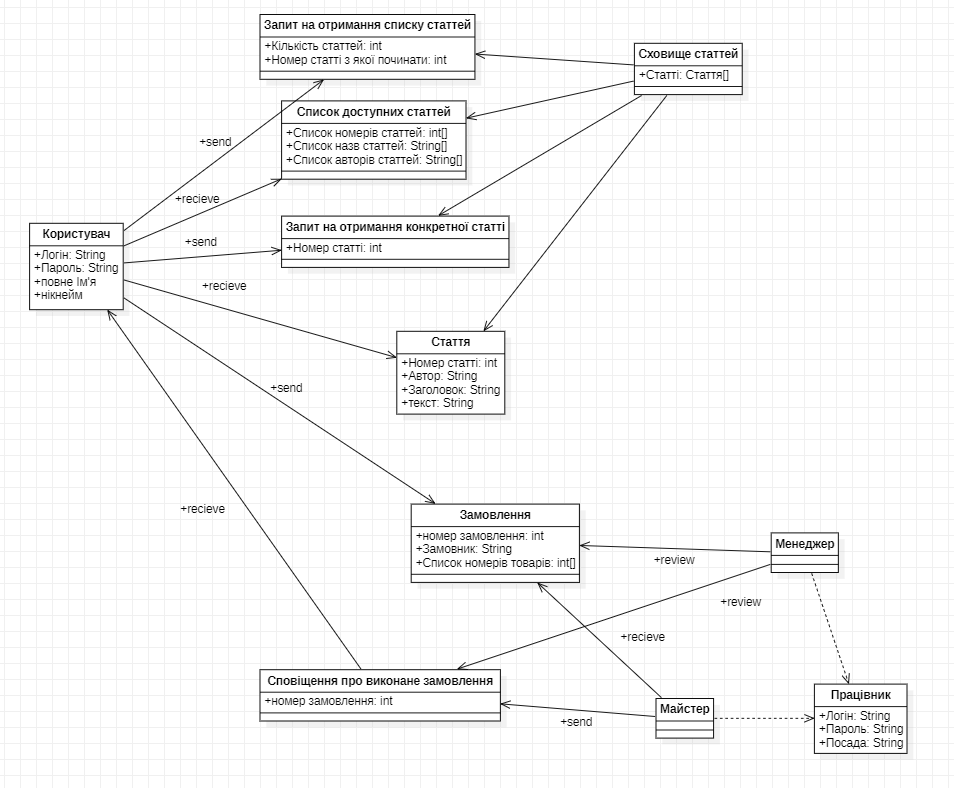
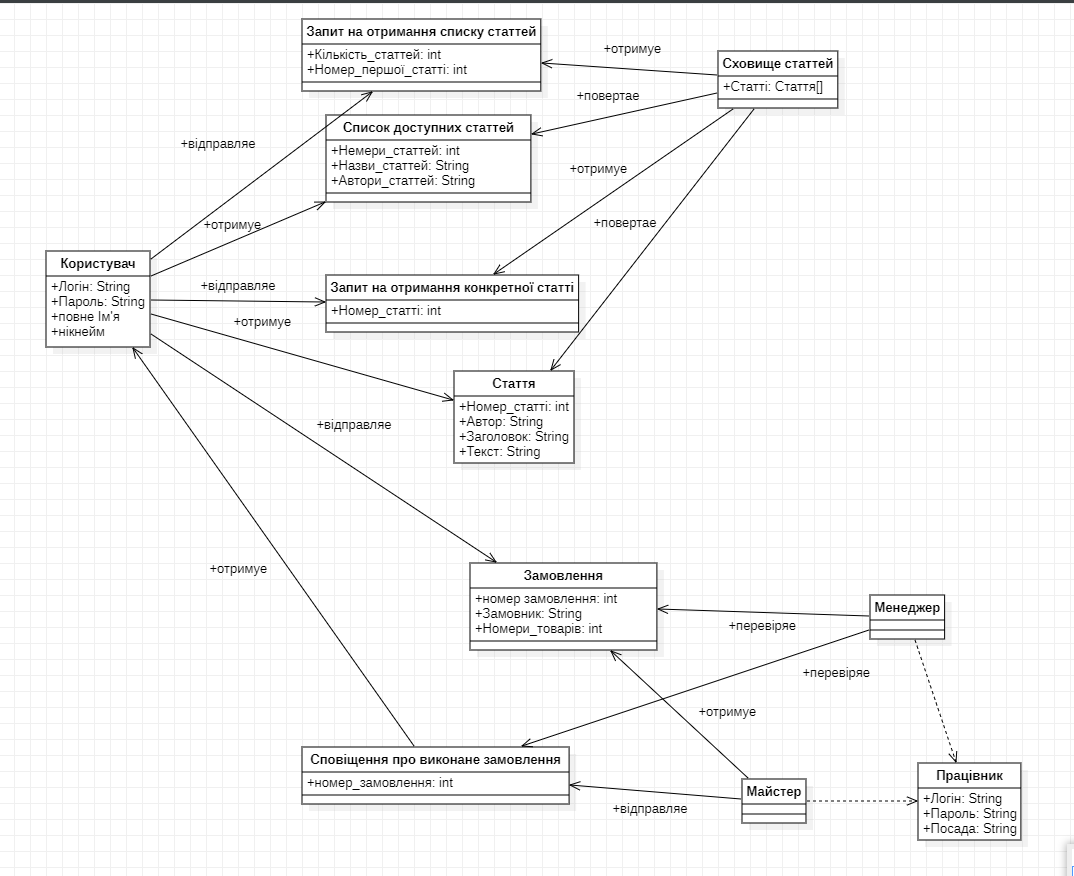
fix

diff --git a/2-SoftwareDesign/2.2-AttributeVocabulary/README.md b/2-SoftwareDesign/2.2-AttributeVocabulary/README.md
@@ -4,30 +4,30 @@
 |:-----:|:-----:|:-----|:-----|:-----|
 |Користувач|Логін|Логін користувача|Текст|Довжина < 25 символів|
 |Користувач|Пароль|Пароль користувача|Текст|Довжина < 25 символів|
-|Користувач|Повне ім'я|Повне ім'я користувача|Текст|Довжина < 40 символів|
+|Користувач|Повне_ім'я|Повне ім'я користувача|Текст|Довжина < 40 символів|
 |Користувач|Нікнейм|Псевдонім користувача|Текст|Довжина < 25 символів, Індивідуальне значення|
 |-----|-----|-----|-----|-----|
-|Запит на отримання списку статтей|Кількість статтей: int|Ел. пошта користувача|Число|значення < 10|
-|Запит на отримання списку статтей|Номер статті з якої починати|Номер статті з якої починаючи з якої буде починатися відлік|Число|немае|
+|Запит на отримання списку статтей|Кількість_статтей: int|Ел. пошта користувача|Число|значення < 10|
+|Запит на отримання списку статтей|Номер_першої_статті|Номер статті з якої починаючи з якої буде починатися відлік|Число|немае|
 |-----|-----|-----|-----|-----|
-|Список доступних статтей|Список номерів статтей|список з номерами статтей|Массив чисел|немае|
-|Список доступних статтей|Список назв статтей|писок назв статтей|Массив текстів|немае|
-|Список доступних статтей|Список авторів статтей|Список авторів статтей|Массив текстів|немае|
+|Список доступних статтей|Номери_статтей|список з номерами статтей|Массив чисел|немае|
+|Список доступних статтей|Назви_статтей|писок назв статтей|Массив текстів|немае|
+|Список доступних статтей|Автори_статтей|Список авторів статтей|Массив текстів|немае|
 |-----|-----|-----|-----|-----|
 |Сховище статтей|Статті|Список об'ектів классу Стаття|Стаття|немає|
 |-----|-----|-----|-----|-----|
-|Запит на отримання конкретної статті|Номер статті|Номер статті яку серверу треба прислати|Число|немає|
+|Запит на отримання конкретної статті|Номер_статті|Номер статті яку серверу треба прислати|Число|немає|
 |-----|-----|-----|-----|-----|
-|Стаття|Номер статті|Персональній айді статті у сховищі|Число|Індивідуальне значення|
+|Стаття|Номер_статті|Персональній айді статті у сховищі|Число|Індивідуальне значення|
 |Стаття|Автор|Автор статті|текст|менше 25 символів|
 |Стаття|Заголовок|Заголовок|текст|Індивідуальне значення|
 |Стаття|Текст|Текст статті|текст|менше 4500 символів|
 |-----|-----|-----|-----|-----|
-|Замовлення|номер замовлення|номер замовлення|Число|Індивідуальне значення|
+|Замовлення|номер_замовлення|номер замовлення|Число|Індивідуальне значення|
 |Замовлення|Замовник|нікнейм замовника|текст|Індивідуальне значення|
-|Замовлення|Список номерів товарів|список айді товарів|массив чисел|менше 50 елементів|
+|Замовлення|Номери_товарів|список айді товарів|массив чисел|менше 50 елементів|
 |-----|-----|-----|-----|-----|
-|Сповіщення про виконане замовлення|номер замовлення|номер виконаного замовлення|Число|Індивідуальне значення|
+|Сповіщення про виконане замовлення|номер_замовлення|номер виконаного замовлення|Число|Індивідуальне значення|
 |-----|-----|-----|-----|-----|
 |Працівник|Логін|Логін праціника|Текст|Довжина < 25 символів|
 |Працівник|Пароль|Пароль праціника|Текст|Довжина < 25 символів|
